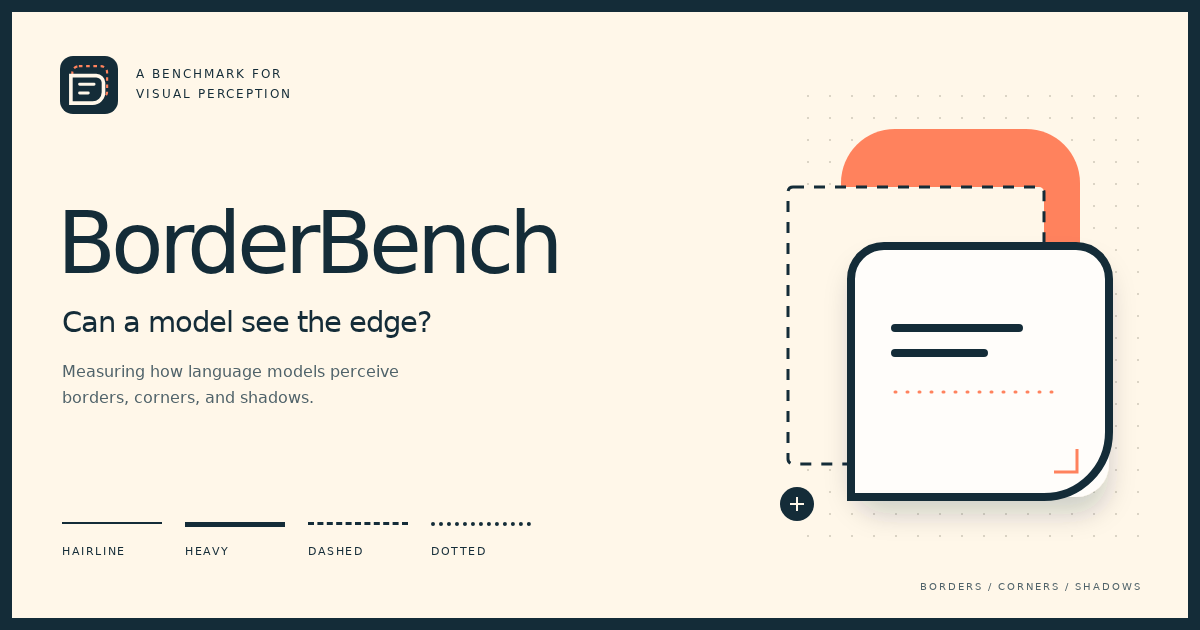
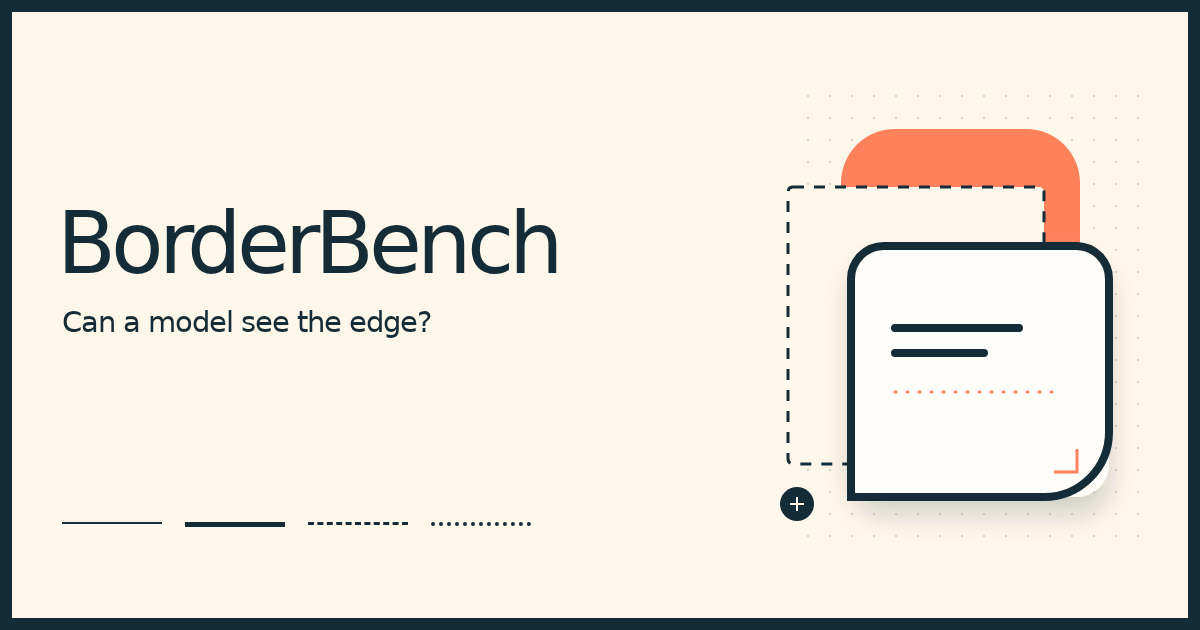
style(branding): simplify BorderBench share card

diff --git a/branding/social-card.html b/branding/social-card.html
@@ -7,31 +7,23 @@
 * { box-sizing: border-box; }
 body { width: 1200px; height: 630px; margin: 0; overflow: hidden; background: #fff7e9; color: #142c38; font-family: Bench, sans-serif; }
 main { position: relative; width: 100%; height: 100%; border: 12px solid #142c38; }
-.brand { position: absolute; top: 44px; left: 48px; display: flex; align-items: center; gap: 18px; }
-.brand img { width: 58px; height: 58px; }
-.eyebrow { font-size: 12px; font-weight: 700; letter-spacing: 2px; line-height: 1.65; }
 h1 { position: absolute; left: 45px; top: 184px; margin: 0; font-size: 86px; font-weight: 700; letter-spacing: -5px; line-height: 1.1; }
 .tagline { position: absolute; left: 50px; top: 293px; margin: 0; font-size: 29px; letter-spacing: -1px; }
-.subline { position: absolute; left: 50px; top: 347px; margin: 0; font-size: 16px; line-height: 1.65; color: #50636a; }
-.axes { position: absolute; left: 50px; bottom: 60px; display: flex; align-items: center; gap: 23px; }
-.axis { font-size: 11px; font-weight: 700; letter-spacing: 1.6px; display: flex; flex-direction: column; gap: 17px; }
+.axes { position: absolute; left: 50px; bottom: 90px; display: flex; align-items: center; gap: 23px; }
 .rule { height: 6px; width: 100px; border-top: 2px solid #142c38; }
 .axis:nth-child(2) .rule { border-top: 5px solid #142c38; }
 .axis:nth-child(3) .rule { border-top: 3px dashed #142c38; }
 .axis:nth-child(4) .rule { border-top: 4px dotted #142c38; }
 .art { position: absolute; right: 24px; top: 83px; width: 445px; height: 470px; }
-.folio { position: absolute; right: 46px; bottom: 26px; font-size: 10px; letter-spacing: 2px; color: #50636a; }
 </style>
 <main>
-  <div class="brand"><img src="borderbench-logo.svg" alt=""><div class="eyebrow">A BENCHMARK FOR<br>VISUAL PERCEPTION</div></div>
   <h1>BorderBench</h1>
   <p class="tagline">Can a model see the edge?</p>
-  <p class="subline">Measuring how language models perceive<br>borders, corners, and shadows.</p>
   <div class="axes" aria-label="Border variations">
-    <div class="axis"><div class="rule"></div>HAIRLINE</div>
-    <div class="axis"><div class="rule"></div>HEAVY</div>
-    <div class="axis"><div class="rule"></div>DASHED</div>
-    <div class="axis"><div class="rule"></div>DOTTED</div>
+    <div class="axis"><div class="rule"></div></div>
+    <div class="axis"><div class="rule"></div></div>
+    <div class="axis"><div class="rule"></div></div>
+    <div class="axis"><div class="rule"></div></div>
   </div>
   <svg class="art" viewBox="0 0 445 470" aria-label="Layered cards with contrasting borders, corners, and shadows">
     <defs>
@@ -49,6 +41,5 @@ h1 { position: absolute; left: 45px; top: 184px; margin: 0; font-size: 86px; fon
     <circle cx="78" cy="409" r="17" fill="#142c38"/>
     <path d="M71 409h14M78 402v14" stroke="#fff7e9" stroke-width="2"/>
   </svg>
-  <div class="folio">BORDERS / CORNERS / SHADOWS</div>
 </main>
 </html>
